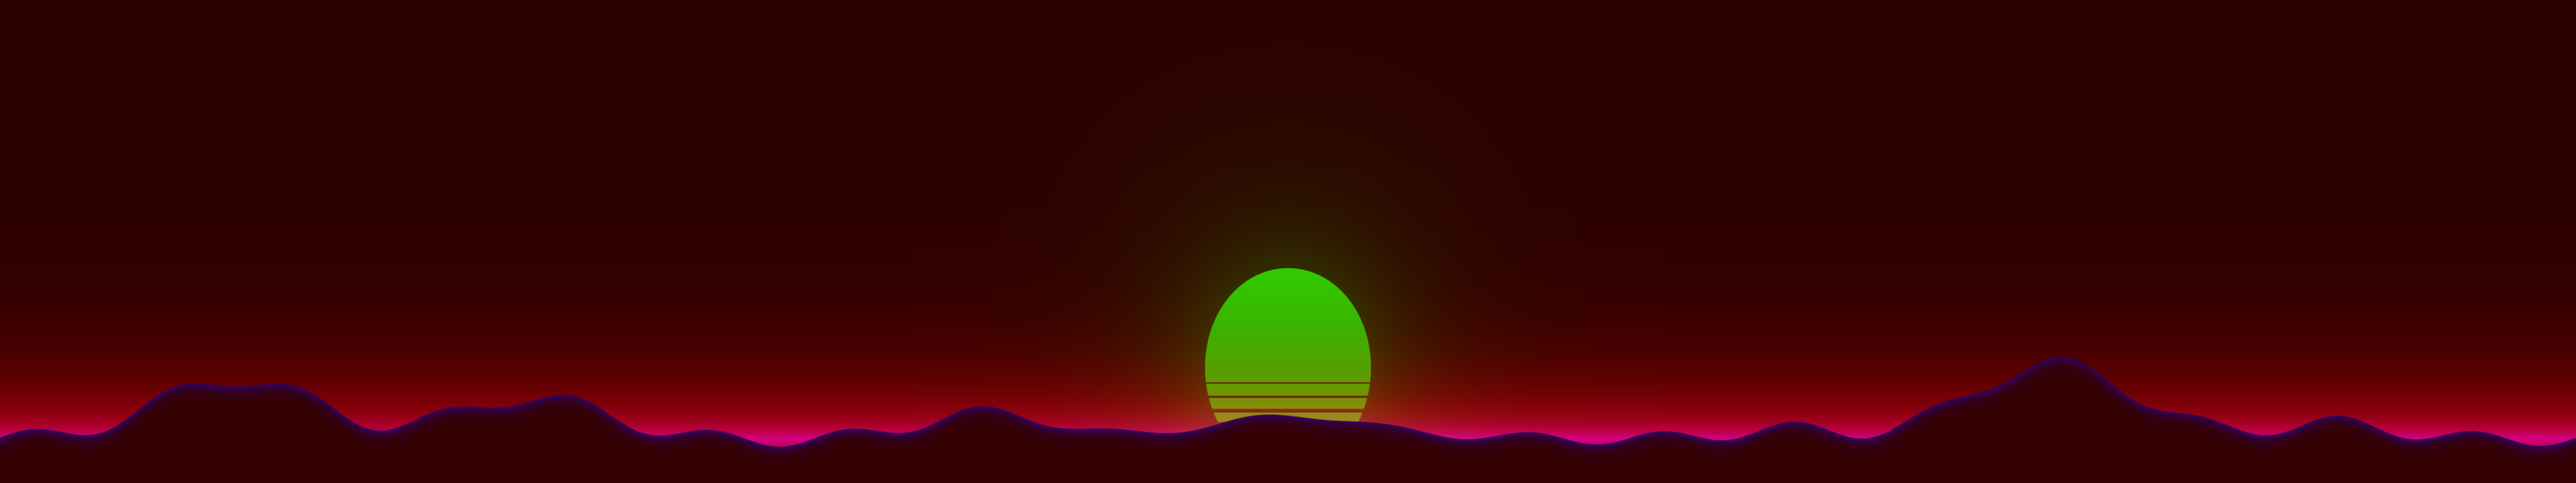
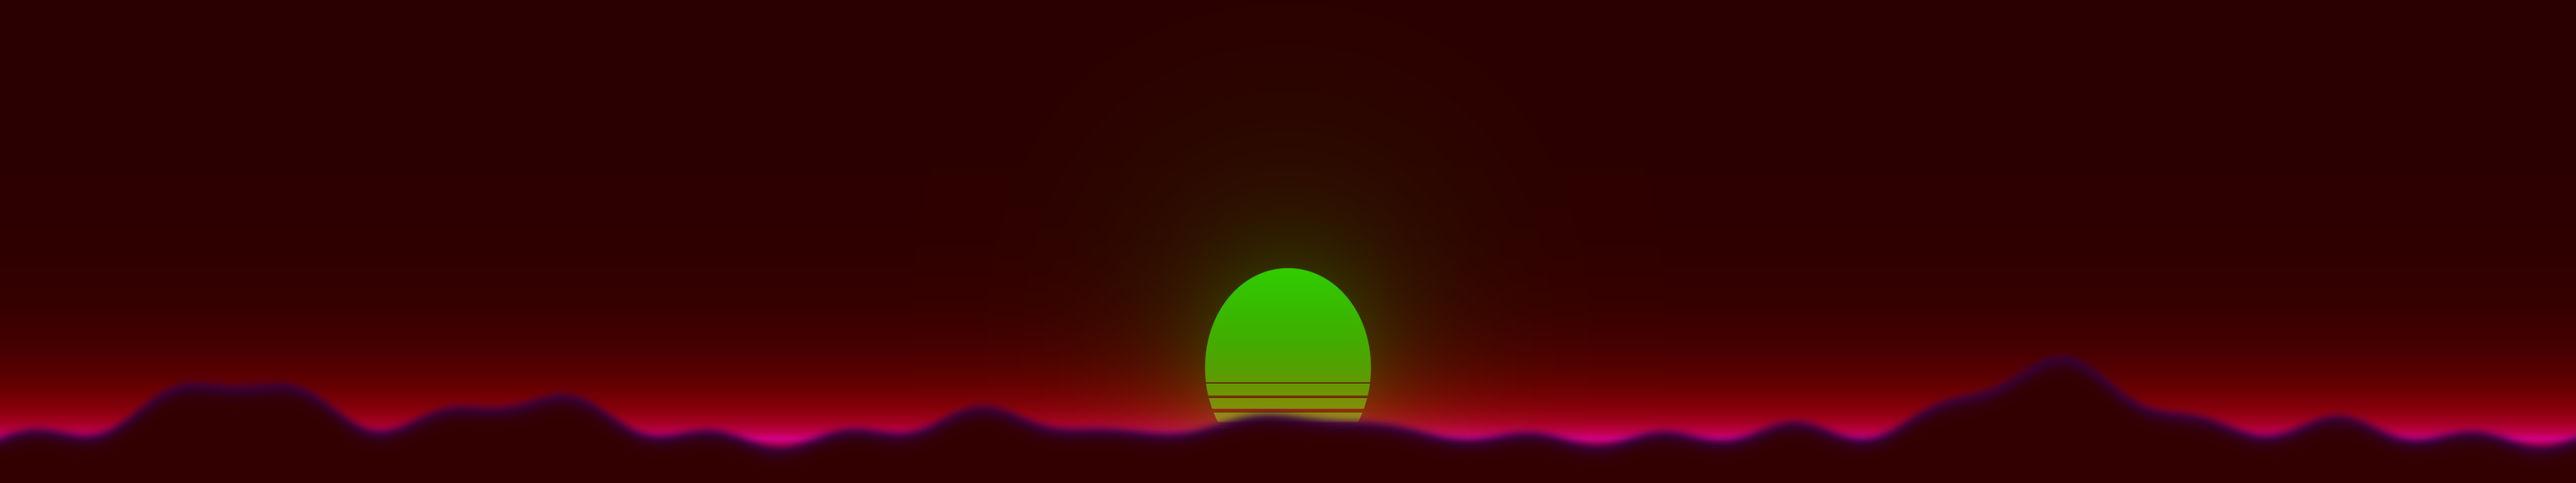
Neon Grid sky: blur the far mountains' outline and rim light
The baked mountains' silhouette and the ring light along their rims blurred
over EDGE_BLUR (0.007 rad, as the arches' soft edges). The rim light isn't
switched per cell, so it can spread. Sky rebaked.

Claude-Session: https://claude.ai/code/session_01XiLHAV85D23y5dwZ3xrQ47

diff --git a/tools/bake_neon_grid_sky.py b/tools/bake_neon_grid_sky.py
@@ -50,6 +50,9 @@ MOUNTAIN_FRONT = 0.35  # mountains are lower straight ahead, so the sun stays in
 MOUNTAIN_SHADE = 0.3
 RIM_WIDTH = 0.012
 RIM_STRENGTH = 0.6
+# the mountains' outline and the light along their rims blurred over this much (radians, a Gaussian's sigma), as far
+# things soften in the air; the same width as the arches' soft edges (EnvSolid.gdshaderinc SHELL_BLUR_ANGLE). Untuned.
+EDGE_BLUR = 0.007
 
 
 def smoothstep(e0, e1, x):
@@ -89,15 +92,30 @@ def masks(width, height):
     ridge = (0.5 + 0.5 * np.sin(az * 3.0 + 1.0)) * (0.6 + 0.4 * np.sin(az * 7.0 + 2.0)) + 0.1 * np.sin(az * 19.0)
     top = MOUNTAIN_HEIGHT * ridge * (MOUNTAIN_FRONT + (1.0 - MOUNTAIN_FRONT) * smoothstep(0.2, 1.0, np.abs(az)))
     mountain = 1.0 - smoothstep(top - px, top + px, y)
+    rim = RIM_STRENGTH * np.exp(-np.maximum(top - y, 0.0) / RIM_WIDTH) * mountain
+    sigma = (EDGE_BLUR / (2 * np.pi / width), EDGE_BLUR / (np.pi * (V_BOTTOM - V_TOP) / height))
+    mountain, rim = blur(mountain, *sigma), blur(rim, *sigma)
     sky = 1.0 - mountain
-    rim = RIM_STRENGTH * np.exp(-np.maximum(top - y, 0.0) / RIM_WIDTH)
     return {
         "haze": haze * sky + MOUNTAIN_SHADE * mountain,
         "sun": sun * sky,
-        "ring": ring_light * sky + rim * mountain,
+        "ring": ring_light * sky + rim,
         "band": band * sky,
         "side": side * sky,
     }
+
+
+def blur(mask, sigma_x, sigma_y):
+    """The mask blurred by a Gaussian of sigma_x, sigma_y texels; wrapping around the circle across, clamped up and down."""
+    for axis, sigma, mode in ((1, sigma_x, "wrap"), (0, sigma_y, "edge")):
+        r = int(np.ceil(sigma * 3.0))
+        k = np.exp(-0.5 * (np.arange(-r, r + 1) / sigma) ** 2)
+        k /= k.sum()
+        pad = [(0, 0), (0, 0)]
+        pad[axis] = (r, r)
+        padded = np.pad(mask, pad, mode=mode)
+        mask = sum(k[i] * np.take(padded, np.arange(i, i + mask.shape[axis]), axis=axis) for i in range(2 * r + 1))
+    return mask
 
 
 def to_bytes(mask, scale):
